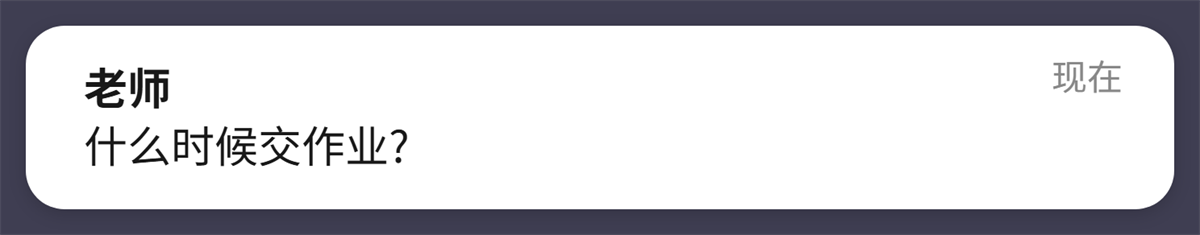
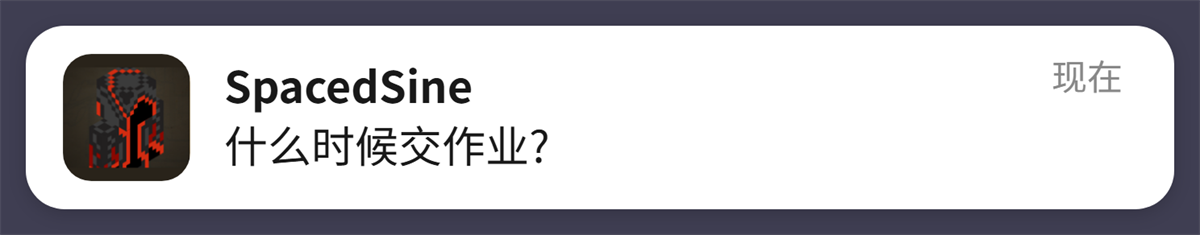
README 改版：加入界面截图与自定义头像示例，突出「头像可换」这一核心卖点
- 新增 docs/ui.png（界面截图，已裁掉浏览器工具栏）
- 示例图换成带自定义头像的版本，直观展示「替换图标」能力
- 变形功能降级为一小节简单带过，不再作为主线
- 新增「它是什么」「三步就能用」「头像能换成任何图片」等章节，重写开头文案

Changed region(s): [[0.0308, 0.2085, 0.4625, 0.7745]]

diff --git a/README.md b/README.md
@@ -1,73 +1,67 @@
-# 微信通知横幅生成器 · WeChat Notification Banner Generator
+<div align="center">
 
-输入「用户名 / 内容 / 时间」，实时生成逐像素对齐 iOS 通知栏的微信横幅通知图，支持**随机 3D 变形**并导出透明底 PNG。
+# 微信通知横幅生成器
 
-纯前端、零依赖、单文件、离线可用 —— 下载 `index.html` 双击就能用。
+**填内容 → 实时预览 → 一键导出透明 PNG**
 
-> A zero-dependency, single-file web tool that renders pixel-accurate iOS-style WeChat notification banners (with optional random 3D deformation) and exports transparent PNGs for film / stage compositing.
+逐像素对齐 iOS 通知栏 · 头像/名字/内容/时间全部可改 · 4 倍导出投屏不糊
 
-## 效果
+<sub>单文件 50 KB · 零依赖 · 离线可用 · 双击即开</sub>
 
-标准横幅（逐像素对齐 iOS 通知栏）：
+</div>
 
-![标准横幅](docs/preview-plain.png)
+![界面预览](docs/ui.png)
 
-开启「随机变形」后（种子 1013）：
+<p align="center"><sub>左边填内容，右边实时预览，点一下就是一张透明底 PNG</sub></p>
 
-![随机变形](docs/preview-deform.png)
+## 它是什么
 
-同一条消息，不同种子 = 不同造型（适合「一幕里冒出很多弹窗」）：
+一个 HTML 文件。打开、填字、下载，三秒出一条「微信收到新消息」的横幅通知图。
 
-![多种造型](docs/variants.png)
+做影视短剧的手机特写、舞台演出的背景画面、产品演示的 UI 稿、通知栏样式的设计参考——不用开 PS，也不用在 AE 里画圆角矩形。
 
-## 功能
+## 三步就能用
 
-- **输入即所见**：用户名、聊天内容（自动换行）、时间，实时预览
-- **像素级还原**：所有尺寸不是目测，而是从一张真实 iOS 通知栏截图逐像素反推出来的（见下方数据表）
-- **随机 3D 变形**：三种形态随机、强度可调、**种子可复现**
-- **导出**：1×/2×/3×/4× 透明底 PNG，也可直接复制到剪贴板
-- **背景**：透明 / 纯色 / 自定义图片（可调模糊与压暗，模拟锁屏壁纸）
-- **细节可调**：图标开关、时间开关、投影、圆角、最多行数、字体
-- **全屏演示**：带通知滑入动画，适合排练或现场当作背景
-- **URL 参数**：可脚本化批量出图（见下方说明）
-- 单文件 ~50 KB，零外部依赖，`file://` 直接打开即可，不需要服务器
+1. 下载 [`index.html`](index.html)，双击用 Chrome / Edge 打开
+2. 填「用户名」「聊天内容」「时间」
+3. 点 **下载 PNG 图片**
 
-## 快速开始
+![生成结果示例](docs/preview-plain.png)
 
-1. 下载 `index.html`
-2. 双击用 Chrome / Edge 打开
-3. 填内容 → 点「下载 PNG 图片」
+## 头像能换成任何图片
 
-想要在线版：在仓库 Settings → Pages 里把 Source 设为 `main` 分支根目录即可。
+这是它比同类工具更实用的一点：**图标不是写死的**，任何一张图片都能变成通知头像。
 
-### 关于图标（重要）
+> 想做成别的 App 的通知？换成那个 App 的图标就行。
+> 想做成某个角色发来的消息？上传那个角色的头像就行。
 
-**本仓库不附带微信图标**。微信图标是腾讯的商标与著作权素材，放进公开仓库会有风险，所以默认渲染的是「无图标」版式（文字会自动左移，不会留空位）。
+操作只有两步：
 
-想还原参考图的外观：
+1. 展开左下角 **「细节与输出设置」**
+2. 在 **「替换图标」** 里选一张图片
 
-1. 打开「细节与输出设置」→「替换图标」
-2. 选择你自己的图标图片（正方形 PNG 最佳）
+上传后会自动按 iOS 圆角比例（0.2237 × 边长）裁切，尺寸和位置与系统通知完全一致。建议用**正方形图片**，非正方形会被缩放填满方形区域。
 
-图标会以 iOS 圆角比例（0.2237 × 边长）裁切后绘制，位置与尺寸严格对齐。
+> ⚠ 本仓库**不附带**任何第三方图标（上面示例里的头像是项目作者自己的）。微信图标属于腾讯的商标素材，请自行准备；只想做通用通知样式的话，用任何一张方图即可。
 
-## 版式还原有多准
+## 为什么它"像真的"
 
-所有常量都来自对一张真实截图（747×144，iPhone @2x）的逐像素测量：
+版式不是靠眼睛估的，而是从一张真实 iOS 通知栏截图上逐像素量出来的：
 
 | 元素 | 常量 | 说明 |
 |---|---|---|
 | 画布 | 744 × 146 | 对应 375pt 宽屏 @2x |
-| 弹窗 | 712 × 113，圆角 24 | 四周留白 16 |
+| 弹窗 | 712 × 113，圆角 24 | 四边留白 16 |
 | 图标 | 79 × 79（=38pt） | 距弹窗左 23，垂直居中，iOS 圆角比例 |
-| 用户名 | 27px / 600 | 距弹窗顶 **墨迹** 26 |
+| 用户名 | 27px / 600 | 距弹窗顶**墨迹** 26 |
 | 正文 | 27px / 400，行高 36 | 首行墨迹距用户名墨迹 36 |
-| 时间 | 22px | 墨迹距弹窗顶 21，右距弹窗边 33 |
-| 文字颜色 | `#191919` | 实测最暗像素 `#121214` |
-| 时间颜色 | `#888888` | 实测最暗像素 `#858585` |
-| 气泡 | `#FFFFFF` | 纯白 |
+| 时间 | 22px `#888888` | 墨迹距顶 21，右距边 33 |
+| 文字色 | `#191919` | 实测最暗像素 `#121214` |
+| 气泡 | `#FFFFFF` | 纯白 + 柔和投影 |
 
-关键做法：**不是用 font-size + padding 估算**，而是用 `measureText()` 的 `actualBoundingBox*` 反推文字**墨迹**（ink）的位置，再把墨迹的左上角精确放到目标坐标。因此换字体后版式也不会散。实测对齐偏差：
+关键细节：文字位置**不是**用 `font-size + padding` 估的，而是用 `measureText()` 的 `actualBoundingBox*` 反推**墨迹**（ink）边界，再把墨迹左上角精确放到目标坐标。所以换字体、改字号，版式都不会散。
+
+实测对齐偏差：
 
 | 元素 | 参考图 | 本工具输出 | 偏差 |
 |---|---|---|---|
@@ -76,41 +70,34 @@
 | 正文墨迹 | x 141–341, y 77–102 | x 140–338, y 78–102 | ≤ 3px |
 | 时间墨迹 | x 652–694, y 37–59 | x 653–694, y 38–57 | ≤ 2px |
 
-（≤3px 的差异来自字体：参考图是 iOS 苹方 PingFang SC，本项目优先用它，没有则回落到 Noto Sans SC / 微软雅黑，字形宽度略有不同。）
+## 功能一览
 
-## 随机变形
-
-勾选「随机变形」后，每次都会得到一个新的造型。实现方式不是简单的 skew，而是真正的 3D 变换：
-
-1. 先按标准版式渲染成位图
-2. 对每个采样点做 **3D 旋转（X/Y/Z）→ 圆柱卷曲 → 透视除法**
-3. 拆成 30 × 8 网格，逐格求仿射矩阵贴图（格子外扩 0.55px 消除接缝）
-
-三种形态按种子随机分配：
-
-| 形态 | 特征 |
+| 功能 | 说明 |
 |---|---|
-| `flip` | 整体绕 Y 轴翻转，近大远小，一端被压缩 |
-| `curl` | 绕竖直圆柱卷曲，两端向后弯，轮廓成弧形 |
-| `mix` | 两者兼有，最接近「卡片翻滚」的观感 |
+| 实时预览 | 左边改字，右边立刻变 |
+| 自定义头像 | 任意图片，自动 iOS 圆角裁切 |
+| 自动换行 | 长消息自动断行，气泡跟着变高，超出按行数截断 |
+| 透明底导出 | 1×–4× 可选，直接拖进剪映 / PR / AE / FCP 合成 |
+| 背景可换 | 透明 / 纯色 / 自定义图片（带模糊与压暗，模拟锁屏壁纸） |
+| 细节可调 | 图标开关、时间开关、投影、圆角、最多行数、字体 |
+| 复制到剪贴板 | 不想存文件时直接粘贴 |
+| 全屏演示 | 带通知滑入动画，可当排练或现场背景 |
+| 批量出图 | URL 参数驱动，脚本一次生成一整场戏的弹窗 |
+| 随机变形 | 可选的小彩蛋，见下 |
 
-因为图标、文字、圆角、投影都在同一张位图里被一起变形，所以放大 3 倍看也不会穿帮。
+## 随机变形（可选）
 
-**种子**：同一种子永远得到完全相同的造型。影片里某个造型想复用，记下种子号即可，导出文件名也会带上它。
+勾上「随机变形」，弹窗会像卡片一样翻飞——3D 翻转、圆柱卷曲、透视，三种形态随机，强度可调，**种子可复现**（记下种子号就能找回同一个造型）。做「一堆弹窗飞出来」的镜头时比较省事。
 
-**强度**：20%–140%，100% 与参考幅度相当。
+<img src="docs/variants.png" width="62%" alt="随机变形的不同造型">
 
-**画布**（变形后画布怎么算）：
+## 导出与批量
 
-| 选项 | 行为 | 适合 |
-|---|---|---|
-| 随形扩展 | 画布跟着变形轮廓放大 | 单张出图，尺寸最大 |
-| 定宽一致 | 画布宽度固定，高度随形 | **多张叠放**，尺寸统一 |
-| 固定原尺寸 | 画布永远是 744×146，内容缩到框内 | 需要严格固定画幅 |
+除了点按钮，也能用 URL 参数脚本化生成（`?mode=raw` 会只渲染画布、不显示界面）：
 
-## URL 参数（批量出图）
-
-加 `?mode=raw` 后只渲染画布、不显示界面，适合脚本批量出图或自动截图：
+```
+index.html?mode=raw&u=老师&m=什么时候交作业?&t=现在&s=3&bg=none
+```
 
 | 参数 | 说明 |
 |---|---|
@@ -121,24 +108,17 @@
 | `bg` | `none` / `color` / `image` |
 | `c` | 背景色，如 `%233f3e52` |
 | `shadow` | `0` / `1` |
-| `deform` | `1` 开启随机变形 |
-| `seed` | 变形种子（`random` 表示随机） |
-| `amount` | 变形强度 20–140 |
-| `fit` | `fit` / `width` / `fixed` |
 | `icon` / `showtime` | `0` / `1` |
 | `radius` | 圆角 |
+| `deform` / `seed` / `amount` / `fit` | 变形开关 / 种子 / 强度 / 画布模式 |
 
-示例：
-
-```
-index.html?mode=raw&u=老师&m=什么时候交作业?&t=现在&s=3&deform=1&seed=1013&fit=width
-```
-
-`tools/batch-export.ps1` 是一个现成的批量脚本（Windows）：
+`tools/batch-export.ps1` 是现成的批量脚本（Windows）：
 
 ```powershell
 .\tools\batch-export.ps1 -Seed 1013,7,42,8888 -Scale 3 -OutDir .\out
 ```
+
+它会用无头 Chrome 调同一个导出通道，所以拿到的图和你点「下载」完全一致。
 
 ## 构建
 
@@ -150,14 +130,14 @@ src/build.js        构建脚本：把图标 base64 内嵌进单文件
 ```
 
 ```bash
-# 不带图标（默认，公开版）
+# 不带图标（默认，即本仓库发布的版本）
 node src/build.js --template src/template.html --no-icon --out index.html
 
-# 内嵌自己的图标
-node src/build.js --template src/template.html --icon my-icon.png --out index.html
+# 内嵌自己的图标，开箱就带头像
+node src/build.js --template src/template.html --icon my-avatar.png --out index.html
 ```
 
-## 与同类项目的区别
+## 与其他项目的区别
 
 「假微信截图」这个大类项目不少，但据我检索，**没有一个是做通知横幅的**：
 
@@ -167,29 +147,20 @@ node src/build.js --template src/template.html --icon my-icon.png --out index.ht
 | [wechat-dialog-generator](https://github.com/gaopengbin/wechat-dialog-generator) | 聊天记录截图（红包/转账/语音） | 形态是聊天窗口内的对话气泡 |
 | [fake-world](https://github.com/LiangNiang/fake-world) | 高仿微信 Web 应用 | 应用模拟，不用于出图 |
 
-本项目的差异点：
-
-1. **形态**：iOS/微信横幅通知（锁屏通知），不是聊天窗口、不是朋友圈
-2. **精度**：逐像素反推的版式常量 + 墨迹对齐，而不是目测
-3. **随机 3D 变形**：可复现的种子系统
-4. **工程**：单文件零依赖透明底 PNG 直出，可直接进剪辑软件
+差异点：**通知横幅形态** + **逐像素版式** + **任意头像替换** + **单文件零依赖透明 PNG 直出**。
 
 ## 已知限制
 
-- 字体：参考图用的是 iOS 苹方（PingFang SC，苹果专有字体）。macOS 上会直接命中；Windows 上回落到 Noto Sans SC，个别字宽相差 1–3px
+- 字体：参考图用 iOS 苹方（PingFang SC，苹果专有）。macOS 上直接命中；Windows 回落到 Noto Sans SC，个别字宽差 1–3px
+- 非正方形头像会被缩放填满方形区域，建议预先裁成正方形
+- 「复制到剪贴板」在 `file://` 下部分浏览器会拒绝，改用「下载 PNG」即可
 - 变形使用网格仿射近似透视，极端强度下极小概率出现亚像素级接缝
-- 剪贴板复制需要浏览器允许（`file://` 下部分浏览器会拒绝，改用「下载 PNG」即可）
 
 ## 使用限制
 
 本项目面向**影视、舞台演出、教学演示、UI 测试**等场景。
 
-**禁止**用于以下用途：
-
-- 伪造聊天记录作为证据、要挟或误导他人
-- 电信诈骗、虚假交易凭证、虚假宣传
-- 微商引流、批量生成用于广告投放
-- 将本项目或生成的图片有偿售卖
+**禁止**用于：伪造聊天记录作为证据或误导他人、电信诈骗与虚假交易凭证、微商引流与批量广告投放、将本项目或生成图片有偿售卖。
 
 生成的图片请自行确保不侵犯他人姓名权、肖像权、名誉权。使用本项目产生的一切后果由使用者承担。
 
@@ -197,10 +168,10 @@ node src/build.js --template src/template.html --icon my-icon.png --out index.ht
 
 「微信 / WeChat」是腾讯科技（深圳）有限公司的商标。本项目与腾讯公司**没有任何关系**，未获其授权或认可。
 
-本项目**不包含**任何腾讯的图标素材。使用者自行上传图标的行为及后果由使用者自负。如腾讯公司认为本项目存在不当之处，请通过 Issue 联系，我会立即处理。
+本仓库**不包含**任何腾讯的图标素材；使用者自行上传图标的行为及后果自负。若腾讯公司认为本项目存在不当之处，请通过 Issue 联系，会立即处理。
 
 ## License
 
 [MIT](LICENSE) © 2026 SpacedSine
 
-（MIT 仅覆盖本仓库中的代码。第三方商标与图标素材不在授权范围内。）
+（MIT 仅覆盖本仓库中的代码，第三方商标、字体与图标素材不在授权范围内。）
